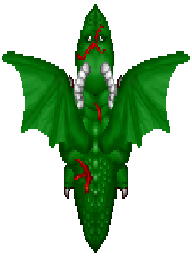
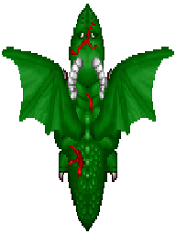
Changed boss sprites, new enemies based on player level

diff --git a/src/Handler.java b/src/Handler.java
@@ -10,36 +10,128 @@ public class Handler {
 	ArrayList<GameObject> toRemove = new ArrayList<GameObject>();
 
 	public void tick() {
-		
-		if (Game.random.nextInt(500) == 1) {
-			this.add(new Enemy(Game.random.nextInt(Game.panelWidth), Game.random.nextInt(Game.panelHeight), Game.TYPE_ENEMY, Game.ENEMY_DEFAULT));
+		if (Game.player.level <= 3){
+			if (Game.random.nextInt(150) == 1) {
+				this.add(new Enemy(Game.random.nextInt(Game.panelWidth), Game.random.nextInt(Game.panelHeight), Game.TYPE_ENEMY, Game.ENEMY_DEFAULT));
+			}if (Game.random.nextInt(1000) == 1) {
+				this.add(new Potion(Game.random.nextInt(Game.panelWidth), Game.random.nextInt(Game.panelHeight), Game.TYPE_POTION, Game.POTION_EXP));
+			}
 		}
-		if (Game.random.nextInt(6000) == 1) {
-			this.add(new Enemy(Game.random.nextInt(Game.panelWidth), Game.random.nextInt(Game.panelHeight), Game.TYPE_ENEMY, Game.ENEMY_DEFAULT));
+		else if (Game.player.level <= 6){
+			if (Game.random.nextInt(300) == 1) {
+				this.add(new Enemy(Game.random.nextInt(Game.panelWidth), Game.random.nextInt(Game.panelHeight), Game.TYPE_ENEMY, Game.ENEMY_DEFAULT));
+			}if (Game.random.nextInt(300) == 1) {
+				this.add(new Enemy(Game.random.nextInt(Game.panelWidth), Game.random.nextInt(Game.panelHeight), Game.TYPE_ENEMY, Game.ENEMY_TANK));
+			}if (Game.random.nextInt(1000) == 1) {
+				this.add(new Potion(Game.random.nextInt(Game.panelWidth), Game.random.nextInt(Game.panelHeight), Game.TYPE_POTION, Game.POTION_EXP));
+			}
 		}
-		if (Game.random.nextInt(6000) == 1) {
-			this.add(new Enemy(Game.random.nextInt(Game.panelWidth), Game.random.nextInt(Game.panelHeight), Game.TYPE_ENEMY, Game.ENEMY_SCOUT));
+		else if (Game.player.level <= 9){
+			if (Game.random.nextInt(200) == 1) {
+				this.add(new Enemy(Game.random.nextInt(Game.panelWidth), Game.random.nextInt(Game.panelHeight), Game.TYPE_ENEMY, Game.ENEMY_DEFAULT));
+			}if (Game.random.nextInt(200) == 1) {
+				this.add(new Enemy(Game.random.nextInt(Game.panelWidth), Game.random.nextInt(Game.panelHeight), Game.TYPE_ENEMY, Game.ENEMY_DEFAULT));
+			}if (Game.random.nextInt(500) == 1) {
+				this.add(new Potion(Game.random.nextInt(Game.panelWidth), Game.random.nextInt(Game.panelHeight), Game.TYPE_POTION, Game.POTION_HEALTH));
+			}if (Game.random.nextInt(1000) == 1) {
+				this.add(new Potion(Game.random.nextInt(Game.panelWidth), Game.random.nextInt(Game.panelHeight), Game.TYPE_POTION, Game.POTION_EXP));
+			}
 		}
-		if (Game.random.nextInt(6000) == 1) {
-			this.add(new Enemy(Game.random.nextInt(Game.panelWidth), Game.random.nextInt(Game.panelHeight), Game.TYPE_ENEMY, Game.ENEMY_ASSASSIN));
+		else if (Game.player.level == 10){
+			if (Game.random.nextInt(300) == 1) {
+				this.add(new Enemy(Game.random.nextInt(Game.panelWidth), Game.random.nextInt(Game.panelHeight), Game.TYPE_ENEMY, Game.BOSS_1));
+			}if (Game.random.nextInt(500) == 1) {
+				this.add(new Potion(Game.random.nextInt(Game.panelWidth), Game.random.nextInt(Game.panelHeight), Game.TYPE_POTION, Game.POTION_DAMAGE));
+			}if (Game.random.nextInt(1000) == 1) {
+				this.add(new Potion(Game.random.nextInt(Game.panelWidth), Game.random.nextInt(Game.panelHeight), Game.TYPE_POTION, Game.POTION_EXP));
+			}if (Game.random.nextInt(1000) == 1) {
+				this.add(new Potion(Game.random.nextInt(Game.panelWidth), Game.random.nextInt(Game.panelHeight), Game.TYPE_POTION, Game.POTION_HEALTH));
+			}
 		}
-		if (Game.random.nextInt(6000) == 1) {
-			this.add(new Enemy(Game.random.nextInt(Game.panelWidth), Game.random.nextInt(Game.panelHeight), Game.TYPE_ENEMY, Game.BOSS_3));
+		else if (Game.player.level < 15){
+			if (Game.random.nextInt(200) == 1) {
+				this.add(new Enemy(Game.random.nextInt(Game.panelWidth), Game.random.nextInt(Game.panelHeight), Game.TYPE_ENEMY, Game.ENEMY_DEFAULT));
+			}if (Game.random.nextInt(400) == 1) {
+				this.add(new Enemy(Game.random.nextInt(Game.panelWidth), Game.random.nextInt(Game.panelHeight), Game.TYPE_ENEMY, Game.ENEMY_TANK));
+			}if (Game.random.nextInt(400) == 1) {
+				this.add(new Enemy(Game.random.nextInt(Game.panelWidth), Game.random.nextInt(Game.panelHeight), Game.TYPE_ENEMY, Game.ENEMY_SCOUT));
+			}if (Game.random.nextInt(1000) == 1) {
+				this.add(new Potion(Game.random.nextInt(Game.panelWidth), Game.random.nextInt(Game.panelHeight), Game.TYPE_POTION, Game.POTION_DAMAGE));
+			}if (Game.random.nextInt(1000) == 1) {
+				this.add(new Potion(Game.random.nextInt(Game.panelWidth), Game.random.nextInt(Game.panelHeight), Game.TYPE_POTION, Game.POTION_HEALTH));
+			}
 		}
-		if (Game.random.nextInt(6000) == 1) {
-			this.add(new Enemy(Game.random.nextInt(Game.panelWidth), Game.random.nextInt(Game.panelHeight), Game.TYPE_ENEMY, Game.BOSS_2));
+		else if (Game.player.level == 15){
+			if (Game.random.nextInt(300) == 1) {
+				this.add(new Enemy(Game.random.nextInt(Game.panelWidth), Game.random.nextInt(Game.panelHeight), Game.TYPE_ENEMY, Game.BOSS_2));
+			}if (Game.random.nextInt(500) == 1) {
+				this.add(new Potion(Game.random.nextInt(Game.panelWidth), Game.random.nextInt(Game.panelHeight), Game.TYPE_POTION, Game.POTION_DAMAGE));
+			}if (Game.random.nextInt(1000) == 1) {
+				this.add(new Potion(Game.random.nextInt(Game.panelWidth), Game.random.nextInt(Game.panelHeight), Game.TYPE_POTION, Game.POTION_EXP));
+			}if (Game.random.nextInt(1000) == 1) {
+				this.add(new Potion(Game.random.nextInt(Game.panelWidth), Game.random.nextInt(Game.panelHeight), Game.TYPE_POTION, Game.POTION_HEALTH));
+			}if (Game.random.nextInt(1000) == 1) {
+				this.add(new Potion(Game.random.nextInt(Game.panelWidth), Game.random.nextInt(Game.panelHeight), Game.TYPE_POTION, Game.POTION_DAMAGE));
+			}if (Game.random.nextInt(1000) == 1) {
+				this.add(new Potion(Game.random.nextInt(Game.panelWidth), Game.random.nextInt(Game.panelHeight), Game.TYPE_POTION, Game.POTION_SPEED));
+			}
 		}
-		if (Game.random.nextInt(6000) == 1) {
-			this.add(new Enemy(Game.random.nextInt(Game.panelWidth), Game.random.nextInt(Game.panelHeight), Game.TYPE_ENEMY, Game.BOSS_1));
+		else if (Game.player.level < 20){
+			if (Game.random.nextInt(200) == 1) {
+				this.add(new Enemy(Game.random.nextInt(Game.panelWidth), Game.random.nextInt(Game.panelHeight), Game.TYPE_ENEMY, Game.ENEMY_DEFAULT));
+			}if (Game.random.nextInt(400) == 1) {
+				this.add(new Enemy(Game.random.nextInt(Game.panelWidth), Game.random.nextInt(Game.panelHeight), Game.TYPE_ENEMY, Game.ENEMY_TANK));
+			}if (Game.random.nextInt(400) == 1) {
+				this.add(new Enemy(Game.random.nextInt(Game.panelWidth), Game.random.nextInt(Game.panelHeight), Game.TYPE_ENEMY, Game.ENEMY_SCOUT));
+			}if (Game.random.nextInt(400) == 1) {
+				this.add(new Enemy(Game.random.nextInt(Game.panelWidth), Game.random.nextInt(Game.panelHeight), Game.TYPE_ENEMY, Game.ENEMY_ASSASSIN));
+			}if (Game.random.nextInt(1000) == 1) {
+				this.add(new Potion(Game.random.nextInt(Game.panelWidth), Game.random.nextInt(Game.panelHeight), Game.TYPE_POTION, Game.POTION_DAMAGE));
+			}if (Game.random.nextInt(1000) == 1) {
+				this.add(new Potion(Game.random.nextInt(Game.panelWidth), Game.random.nextInt(Game.panelHeight), Game.TYPE_POTION, Game.POTION_HEALTH));
+			}if (Game.random.nextInt(1000) == 1) {
+				this.add(new Potion(Game.random.nextInt(Game.panelWidth), Game.random.nextInt(Game.panelHeight), Game.TYPE_POTION, Game.POTION_EXP));
+			}if (Game.random.nextInt(1000) == 1) {
+				this.add(new Potion(Game.random.nextInt(Game.panelWidth), Game.random.nextInt(Game.panelHeight), Game.TYPE_POTION, Game.POTION_SPEED));
+			}
 		}
-		if (Game.random.nextInt(1000) == 1) {
-			this.add(new Potion(Game.random.nextInt(Game.panelWidth), Game.random.nextInt(Game.panelHeight), Game.TYPE_POTION, Game.POTION_HEALTH));
+		else if (Game.player.level == 20){
+			if (Game.random.nextInt(600) == 1) {
+				this.add(new Enemy(Game.random.nextInt(Game.panelWidth), Game.random.nextInt(Game.panelHeight), Game.TYPE_ENEMY, Game.BOSS_3));
+			}if (Game.random.nextInt(500) == 1) {
+				this.add(new Potion(Game.random.nextInt(Game.panelWidth), Game.random.nextInt(Game.panelHeight), Game.TYPE_POTION, Game.POTION_DAMAGE));
+			}if (Game.random.nextInt(1000) == 1) {
+				this.add(new Potion(Game.random.nextInt(Game.panelWidth), Game.random.nextInt(Game.panelHeight), Game.TYPE_POTION, Game.POTION_EXP));
+			}if (Game.random.nextInt(1000) == 1) {
+				this.add(new Potion(Game.random.nextInt(Game.panelWidth), Game.random.nextInt(Game.panelHeight), Game.TYPE_POTION, Game.POTION_HEALTH));
+			}if (Game.random.nextInt(1000) == 1) {
+				this.add(new Potion(Game.random.nextInt(Game.panelWidth), Game.random.nextInt(Game.panelHeight), Game.TYPE_POTION, Game.POTION_DAMAGE));
+			}if (Game.random.nextInt(1000) == 1) {
+				this.add(new Potion(Game.random.nextInt(Game.panelWidth), Game.random.nextInt(Game.panelHeight), Game.TYPE_POTION, Game.POTION_SPEED));
+			}
 		}
-		if (Game.random.nextInt(1000) == 1) {
-			this.add(new Potion(Game.random.nextInt(Game.panelWidth), Game.random.nextInt(Game.panelHeight), Game.TYPE_POTION, Game.POTION_SPEED));
-		}
-		if (Game.random.nextInt(1000) == 1) {
-			this.add(new Potion(Game.random.nextInt(Game.panelWidth), Game.random.nextInt(Game.panelHeight), Game.TYPE_POTION, Game.POTION_DAMAGE));
+		else{
+			if (Game.random.nextInt(500) == 1) {
+				this.add(new Enemy(Game.random.nextInt(Game.panelWidth), Game.random.nextInt(Game.panelHeight), Game.TYPE_ENEMY, Game.ENEMY_DEFAULT));
+			}if (Game.random.nextInt(800) == 1) {
+				this.add(new Enemy(Game.random.nextInt(Game.panelWidth), Game.random.nextInt(Game.panelHeight), Game.TYPE_ENEMY, Game.ENEMY_DEFAULT));
+			}if (Game.random.nextInt(800) == 1) {
+				this.add(new Enemy(Game.random.nextInt(Game.panelWidth), Game.random.nextInt(Game.panelHeight), Game.TYPE_ENEMY, Game.ENEMY_SCOUT));
+			}if (Game.random.nextInt(800) == 1) {
+				this.add(new Enemy(Game.random.nextInt(Game.panelWidth), Game.random.nextInt(Game.panelHeight), Game.TYPE_ENEMY, Game.ENEMY_ASSASSIN));
+			}if (Game.random.nextInt(2000) == 1) {
+				this.add(new Enemy(Game.random.nextInt(Game.panelWidth), Game.random.nextInt(Game.panelHeight), Game.TYPE_ENEMY, Game.BOSS_3));
+			}if (Game.random.nextInt(4000) == 1) {
+				this.add(new Enemy(Game.random.nextInt(Game.panelWidth), Game.random.nextInt(Game.panelHeight), Game.TYPE_ENEMY, Game.BOSS_2));
+			}if (Game.random.nextInt(6000) == 1) {
+				this.add(new Enemy(Game.random.nextInt(Game.panelWidth), Game.random.nextInt(Game.panelHeight), Game.TYPE_ENEMY, Game.BOSS_1));
+			}if (Game.random.nextInt(1000) == 1) {
+				this.add(new Potion(Game.random.nextInt(Game.panelWidth), Game.random.nextInt(Game.panelHeight), Game.TYPE_POTION, Game.POTION_HEALTH));
+			}if (Game.random.nextInt(1000) == 1) {
+				this.add(new Potion(Game.random.nextInt(Game.panelWidth), Game.random.nextInt(Game.panelHeight), Game.TYPE_POTION, Game.POTION_SPEED));
+			}if (Game.random.nextInt(1000) == 1) {
+				this.add(new Potion(Game.random.nextInt(Game.panelWidth), Game.random.nextInt(Game.panelHeight), Game.TYPE_POTION, Game.POTION_DAMAGE));
+			}
 		}
 		try {
 		for (GameObject object : gameObjects)

diff --git a/src/Player.java b/src/Player.java
@@ -37,9 +37,9 @@ public class Player extends GameObject {
 
 	// Experience Variables
 	double Exp = 0;
-	double maxExp = 100;
+	double maxExp = 10;
 	double level = 1;
-	double ExpPoints = 0;
+	double ExpPoints = 3;
 	
 	// Potion Variables
 	double DPEffectTime = 6 * Game.tps;
@@ -152,6 +152,9 @@ public class Player extends GameObject {
 				else if (potion.subtype == Game.POTION_HEALTH){
 					this.health += (this.maxHealth - this.health) * potion.healUp;
 				}
+				else if (potion.subtype == Game.POTION_EXP){
+					this.Exp += (this.maxExp - this.Exp)/2.0;
+				}
 				Game.gameController.toRemove.add(potion);
 			}
 		}
@@ -159,12 +162,21 @@ public class Player extends GameObject {
 		// Experience
 		if (this.Exp >= this.maxExp){
 			this.Exp = 0;
-			this.maxExp += 20;
+			if (this.level < 10){
+				this.maxExp += 5;
+			}else if (this.level == 10){
+				this.maxExp = 40;
+			}else if (this.level == 11){
+				this.maxExp = 100;
+			}else if (this.level < 20){
+				this.maxExp += 10;
+			}else{
+				this.maxExp += 20;
+			}
 			if (this.level == 1000){
 				this.Exp = 0;
 				this.maxExp = 10000;
-			}
-			else{
+			}else{
 				this.level++;
 				this.ExpPoints += 3;
 			}
@@ -214,9 +226,9 @@ public class Player extends GameObject {
 		g.setColor(Color.DARK_GRAY);
 		g.drawRect(20, Game.panelHeight - 40, 100, 20);
 		g.setColor(Color.black);
-		g.drawString("Health: " + Math.round(this.health * 10) / 10.0 + "/" + this.maxHealth, 20,
+		g.drawString("Health: " + Math.round(this.health * 100) / 100.0 + "/" + Math.round(this.maxHealth * 100) / 100.0, 20,
 				Game.panelHeight - 45);
-		g.drawString("Health Regen: " + this.healthRegen, 20, Game.panelHeight - 58);
+		g.drawString("Health Regen: " + Math.round(this.healthRegen * 100) / 100.0, 20, Game.panelHeight - 58);
 
 		// PF Cooldown Indicator
 		g.setColor(Color.white);
@@ -302,11 +314,11 @@ public class Player extends GameObject {
 		
 		// Level Up Stats
 		g.setColor(Color.DARK_GRAY);
-		g.fillRect(20, Game.panelHeight - 90, 100, 20);
+		g.fillRect(20, Game.panelHeight - 80, 100, 10);
 		g.setColor(Color.blue);
-		g.fillRect(20, Game.panelHeight - 90, (int) (this.Exp / (double) this.maxExp * 100), 20);
+		g.fillRect(20, Game.panelHeight - 80, (int) (this.Exp / (double) this.maxExp * 100), 10);
 		g.setColor(Color.black);
-		g.drawString("Experience", 20, Game.panelHeight - 100);
+		g.drawString("Experience     Lvl: " + (int)(this.level), 20, Game.panelHeight - 85);
 		if (this.ExpPoints > 0){
 			g.setColor(Color.white);
 			g.fillRect(20, Game.panelHeight - 130, 70, 20);

diff --git a/src/Enemy.java b/src/Enemy.java
@@ -41,10 +41,10 @@ public class Enemy extends GameObject {
 			this.colBox = new Rectangle(8, 8, 32, 32);
 			this.damage = 1;
 			this.knockback = 60;
-			this.moveDist = 0.75;
+			this.moveDist = 1.2;
 			this.health = 500;
 			this.maxHealth = 500;
-			this.rotSpeed = 0.3;
+			this.rotSpeed = 0.4;
 		} else if (subtype == Game.ENEMY_ASSASSIN) {
 			this.sprite = Game.sprAssassin1;
 			this.colBox = new Rectangle(8, 8, 16, 16);
@@ -199,15 +199,18 @@ public class Enemy extends GameObject {
 		if (this.health == 0){
 			if (this.subtype == Game.BOSS_1){
 				Game.player.Exp += 20;
-			}
-			else if (this.subtype == Game.BOSS_2){
+			}else if (this.subtype == Game.BOSS_2){
 				Game.player.Exp += 50;
-			}
-			else if (this.subtype == Game.BOSS_3){
+			}else if (this.subtype == Game.BOSS_3){
 				Game.player.Exp += 100;
-			}
-			else{
+			}else if (this.subtype == Game.ENEMY_DEFAULT){
 				Game.player.Exp += 5;
+			}else if (this.subtype == Game.ENEMY_TANK){
+				Game.player.Exp += 8;
+			}else if (this.subtype == Game.ENEMY_SCOUT){
+				Game.player.Exp += 8;
+			}else if (this.subtype == Game.ENEMY_ASSASSIN){
+				Game.player.Exp += 14;
 			}
 			Game.gameController.toRemove.add(this);
 		}

diff --git a/src/Game.java b/src/Game.java
@@ -289,26 +289,22 @@ public class Game {
 				if (k == KeyEvent.VK_F3) {
 					// Toggle Debug State
 					debug = !debug;
-				}
-				if (k == KeyEvent.VK_1){
+				}if (k == KeyEvent.VK_1){
 					if (player.ExpPoints > 0){
-						player.health *= 1.1;
-						player.maxHealth *= 1.1;
+						player.health *= 1.2;
+						player.maxHealth *= 1.2;
 						player.healthRegen *= 1.1;
 						player.ExpPoints --;
 					}
-				}
-				if (k == KeyEvent.VK_2){
+				}if (k == KeyEvent.VK_2){
 					if (player.ExpPoints > 0){
-						player.moveDist += 0.1;
+						player.moveDist += 0.2;
 						player.ExpPoints --;
 					}
-				}
-				if (k == KeyEvent.VK_3){
+				}if (k == KeyEvent.VK_3){
 					if (player.ExpPoints > 0){
 						player.pfDamage += 4;
 						player.ExpPoints --;
-						
 					}
 				}
 			}
